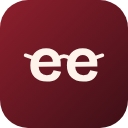
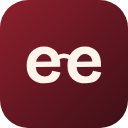
iSeenta: drop temples, tighten spacing, add popup theme toggle, follow browser theme by default
Claude-Session: https://claude.ai/code/session_018bcRzLMrSQFtpATV4CetTu

Changed region(s): [[0.1875, 0.3438, 0.5625, 0.6562], [0.5312, 0.3438, 0.8125, 0.6562]]

diff --git a/src/popup.html b/src/popup.html
@@ -15,10 +15,10 @@
     <div class="extension-popup">
     <header class="popup-header">
       <div class="brand-block">
-        <svg class="brand-wordmark" viewBox="-30 -770 3912 850" role="img" aria-label="iSeenta" xmlns="http://www.w3.org/2000/svg"><title>iSeenta</title><path class="seenta-letters" fill="currentColor" d="M66 0V-525H210V0ZM139 -604Q97 -604 74.5 -621.5Q52 -639 52 -673Q52 -708 74.5 -726Q97 -744 139 -744Q182 -744 204.5 -726Q227 -708 227 -673Q227 -640 204.5 -622Q182 -604 139 -604Z M593 14Q528 14 476.5 1.5Q425 -11 388.5 -36.5Q352 -62 331.5 -100.5Q311 -139 308 -189L434 -230Q436 -185 456.5 -155Q477 -125 515 -111Q553 -97 600 -97Q645 -97 676 -108Q707 -119 723 -137.5Q739 -156 739 -178Q739 -204 719 -220Q699 -236 664.5 -247Q630 -258 586 -268Q537 -279 489.5 -293Q442 -307 403.5 -329Q365 -351 342.5 -386Q320 -421 320 -474Q320 -535 350.5 -579.5Q381 -624 440 -649Q499 -674 582 -674Q666 -674 725.5 -649.5Q785 -625 818 -580.5Q851 -536 854 -475L724 -439Q724 -470 714 -493Q704 -516 686 -531.5Q668 -547 641.5 -555Q615 -563 581 -563Q542 -563 513.5 -553Q485 -543 470.5 -526Q456 -509 456 -486Q456 -459 478.5 -441.5Q501 -424 538.5 -413Q576 -402 621 -392Q664 -383 708.5 -369.5Q753 -356 791.5 -334.5Q830 -313 853.5 -276.5Q877 -240 877 -185Q877 -125 845 -80Q813 -35 749.5 -10.5Q686 14 593 14Z M1293 14Q1228 14 1177.5 -4Q1127 -22 1092 -56Q1057 -90 1038.5 -140Q1020 -190 1020 -253Q1020 -315 1037.5 -367.5Q1055 -420 1089 -458.5Q1123 -497 1172 -518Q1221 -539 1283 -539Q1343 -539 1390 -519.5Q1437 -500 1468.5 -461Q1500 -422 1514.5 -365.5Q1529 -309 1525 -236L1158 -232Q1162 -165 1195 -131Q1232 -91 1293 -91Q1321 -91 1340.5 -98.5Q1360 -106 1372.5 -118Q1385 -130 1392.5 -145Q1400 -160 1405 -175L1530 -148Q1521 -111 1503.5 -81.5Q1486 -52 1457 -30.5Q1428 -9 1387.5 2.5Q1347 14 1293 14ZM1162 -311 1393 -314Q1392 -341 1384 -361Q1370 -395 1343.5 -411Q1317 -427 1285 -427Q1247 -427 1218 -407Q1189 -387 1173 -349Q1166 -331 1162 -311Z M1899 14Q1834 14 1783.5 -4Q1733 -22 1698 -56Q1663 -90 1644.5 -140Q1626 -190 1626 -253Q1626 -315 1643.5 -367.5Q1661 -420 1695 -458.5Q1729 -497 1778 -518Q1827 -539 1889 -539Q1949 -539 1996 -519.5Q2043 -500 2074.5 -461Q2106 -422 2120.5 -365.5Q2135 -309 2131 -236L1764 -232Q1768 -165 1801 -131Q1838 -91 1899 -91Q1927 -91 1946.5 -98.5Q1966 -106 1978.5 -118Q1991 -130 1998.5 -145Q2006 -160 2011 -175L2136 -148Q2127 -111 2109.5 -81.5Q2092 -52 2063 -30.5Q2034 -9 1993.5 2.5Q1953 14 1899 14ZM1768 -311 1999 -314Q1998 -341 1990 -361Q1976 -395 1949.5 -411Q1923 -427 1891 -427Q1853 -427 1824 -407Q1795 -387 1779 -349Q1772 -331 1768 -311Z M2329 0V-525H2447L2446 -368H2466Q2479 -425 2503 -463Q2527 -501 2563.5 -520Q2600 -539 2650 -539Q2741 -539 2788.5 -475Q2836 -411 2836 -274V0H2691V-258Q2691 -342 2666.5 -380.5Q2642 -419 2595 -419Q2555 -419 2528 -394Q2501 -369 2487.5 -328.5Q2474 -288 2473 -238V0Z M3143 12Q3055 12 3013.5 -34.5Q2972 -81 2972 -183V-412H2896L2898 -525H2951Q2982 -525 2997 -534Q3012 -543 3015 -567L3028 -642H3110V-525H3243V-408H3110V-189Q3110 -153 3127 -137Q3144 -121 3179 -121Q3198 -121 3215.5 -125Q3233 -129 3246 -138V-4Q3215 6 3189 9Q3163 12 3143 12Z M3456 14Q3412 14 3378 -3.5Q3344 -21 3325 -54Q3306 -87 3306 -136Q3306 -179 3322.5 -208Q3339 -237 3371 -255Q3403 -273 3450 -285Q3497 -297 3557 -306Q3589 -311 3609.5 -315.5Q3630 -320 3640 -330.5Q3650 -341 3650 -361Q3650 -389 3630 -409Q3610 -429 3567 -429Q3538 -429 3513.5 -419Q3489 -409 3471.5 -389Q3454 -369 3446 -338L3319 -377Q3331 -418 3353.5 -448Q3376 -478 3408 -498.5Q3440 -519 3481 -529Q3522 -539 3570 -539Q3647 -539 3695.5 -514.5Q3744 -490 3768 -438.5Q3792 -387 3792 -306V-216Q3792 -181 3793.5 -145Q3795 -109 3797.5 -72.5Q3800 -36 3803 0H3676Q3672 -25 3668.5 -57.5Q3665 -90 3663 -123H3645Q3631 -85 3605 -54Q3579 -23 3541.5 -4.5Q3504 14 3456 14ZM3517 -90Q3536 -90 3555.5 -97Q3575 -104 3593.5 -116.5Q3612 -129 3627.5 -148Q3643 -167 3653 -191L3651 -257Q3642 -253 3632 -250Q3608 -242 3582.5 -238Q3557 -234 3532 -229Q3507 -224 3487.5 -216Q3468 -208 3456.5 -194.5Q3445 -181 3445 -157Q3445 -126 3465 -108Q3485 -90 3517 -90Z"/><g class="seenta-glasses" fill="none" stroke="currentColor" stroke-width="60" stroke-linecap="round" stroke-linejoin="round"><path d="M1478.0 -366.5 Q1578.0 -450.5 1678.0 -366.5"/><path d="M1072.0 -377.3 L942.0 -421.3"/><path d="M2084.0 -377.3 L2214.0 -421.3"/></g></svg>
+        <svg class="brand-wordmark" viewBox="-30 -770 3712 850" role="img" aria-label="iSeenta" xmlns="http://www.w3.org/2000/svg"><title>iSeenta</title><path class="seenta-letters" fill="currentColor" d="M66 0V-525H210V0ZM139 -604Q97 -604 74.5 -621.5Q52 -639 52 -673Q52 -708 74.5 -726Q97 -744 139 -744Q182 -744 204.5 -726Q227 -708 227 -673Q227 -640 204.5 -622Q182 -604 139 -604Z M593 14Q528 14 476.5 1.5Q425 -11 388.5 -36.5Q352 -62 331.5 -100.5Q311 -139 308 -189L434 -230Q436 -185 456.5 -155Q477 -125 515 -111Q553 -97 600 -97Q645 -97 676 -108Q707 -119 723 -137.5Q739 -156 739 -178Q739 -204 719 -220Q699 -236 664.5 -247Q630 -258 586 -268Q537 -279 489.5 -293Q442 -307 403.5 -329Q365 -351 342.5 -386Q320 -421 320 -474Q320 -535 350.5 -579.5Q381 -624 440 -649Q499 -674 582 -674Q666 -674 725.5 -649.5Q785 -625 818 -580.5Q851 -536 854 -475L724 -439Q724 -470 714 -493Q704 -516 686 -531.5Q668 -547 641.5 -555Q615 -563 581 -563Q542 -563 513.5 -553Q485 -543 470.5 -526Q456 -509 456 -486Q456 -459 478.5 -441.5Q501 -424 538.5 -413Q576 -402 621 -392Q664 -383 708.5 -369.5Q753 -356 791.5 -334.5Q830 -313 853.5 -276.5Q877 -240 877 -185Q877 -125 845 -80Q813 -35 749.5 -10.5Q686 14 593 14Z M1194 14Q1129 14 1078.5 -4Q1028 -22 993 -56Q958 -90 939.5 -140Q921 -190 921 -253Q921 -315 938.5 -367.5Q956 -420 990 -458.5Q1024 -497 1073 -518Q1122 -539 1184 -539Q1244 -539 1291 -519.5Q1338 -500 1369.5 -461Q1401 -422 1415.5 -365.5Q1430 -309 1426 -236L1059 -232Q1063 -165 1096 -131Q1133 -91 1194 -91Q1222 -91 1241.5 -98.5Q1261 -106 1273.5 -118Q1286 -130 1293.5 -145Q1301 -160 1306 -175L1431 -148Q1422 -111 1404.5 -81.5Q1387 -52 1358 -30.5Q1329 -9 1288.5 2.5Q1248 14 1194 14ZM1063 -311 1294 -314Q1293 -341 1285 -361Q1271 -395 1244.5 -411Q1218 -427 1186 -427Q1148 -427 1119 -407Q1090 -387 1074 -349Q1067 -331 1063 -311Z M1808 14Q1743 14 1692.5 -4Q1642 -22 1607 -56Q1572 -90 1553.5 -140Q1535 -190 1535 -253Q1535 -315 1552.5 -367.5Q1570 -420 1604 -458.5Q1638 -497 1687 -518Q1736 -539 1798 -539Q1858 -539 1905 -519.5Q1952 -500 1983.5 -461Q2015 -422 2029.5 -365.5Q2044 -309 2040 -236L1673 -232Q1677 -165 1710 -131Q1747 -91 1808 -91Q1836 -91 1855.5 -98.5Q1875 -106 1887.5 -118Q1900 -130 1907.5 -145Q1915 -160 1920 -175L2045 -148Q2036 -111 2018.5 -81.5Q2001 -52 1972 -30.5Q1943 -9 1902.5 2.5Q1862 14 1808 14ZM1677 -311 1908 -314Q1907 -341 1899 -361Q1885 -395 1858.5 -411Q1832 -427 1800 -427Q1762 -427 1733 -407Q1704 -387 1688 -349Q1681 -331 1677 -311Z M2129 0V-525H2247L2246 -368H2266Q2279 -425 2303 -463Q2327 -501 2363.5 -520Q2400 -539 2450 -539Q2541 -539 2588.5 -475Q2636 -411 2636 -274V0H2491V-258Q2491 -342 2466.5 -380.5Q2442 -419 2395 -419Q2355 -419 2328 -394Q2301 -369 2287.5 -328.5Q2274 -288 2273 -238V0Z M2943 12Q2855 12 2813.5 -34.5Q2772 -81 2772 -183V-412H2696L2698 -525H2751Q2782 -525 2797 -534Q2812 -543 2815 -567L2828 -642H2910V-525H3043V-408H2910V-189Q2910 -153 2927 -137Q2944 -121 2979 -121Q2998 -121 3015.5 -125Q3033 -129 3046 -138V-4Q3015 6 2989 9Q2963 12 2943 12Z M3256 14Q3212 14 3178 -3.5Q3144 -21 3125 -54Q3106 -87 3106 -136Q3106 -179 3122.5 -208Q3139 -237 3171 -255Q3203 -273 3250 -285Q3297 -297 3357 -306Q3389 -311 3409.5 -315.5Q3430 -320 3440 -330.5Q3450 -341 3450 -361Q3450 -389 3430 -409Q3410 -429 3367 -429Q3338 -429 3313.5 -419Q3289 -409 3271.5 -389Q3254 -369 3246 -338L3119 -377Q3131 -418 3153.5 -448Q3176 -478 3208 -498.5Q3240 -519 3281 -529Q3322 -539 3370 -539Q3447 -539 3495.5 -514.5Q3544 -490 3568 -438.5Q3592 -387 3592 -306V-216Q3592 -181 3593.5 -145Q3595 -109 3597.5 -72.5Q3600 -36 3603 0H3476Q3472 -25 3468.5 -57.5Q3465 -90 3463 -123H3445Q3431 -85 3405 -54Q3379 -23 3341.5 -4.5Q3304 14 3256 14ZM3317 -90Q3336 -90 3355.5 -97Q3375 -104 3393.5 -116.5Q3412 -129 3427.5 -148Q3443 -167 3453 -191L3451 -257Q3442 -253 3432 -250Q3408 -242 3382.5 -238Q3357 -234 3332 -229Q3307 -224 3287.5 -216Q3268 -208 3256.5 -194.5Q3245 -181 3245 -157Q3245 -126 3265 -108Q3285 -90 3317 -90Z"/><g class="seenta-glasses" fill="none" stroke="currentColor" stroke-width="64" stroke-linecap="round" stroke-linejoin="round"><path d="M1379.0 -366.5 Q1483.0 -436.5 1587.0 -366.5"/></g></svg>
         <span class="brand-caption">Class activity tracker</span>
       </div>
-      <svg class="header-eye" viewBox="882 -609 1392 663" aria-hidden="true" xmlns="http://www.w3.org/2000/svg"><path class="seenta-letters" fill="currentColor" d="M1293 14Q1228 14 1177.5 -4Q1127 -22 1092 -56Q1057 -90 1038.5 -140Q1020 -190 1020 -253Q1020 -315 1037.5 -367.5Q1055 -420 1089 -458.5Q1123 -497 1172 -518Q1221 -539 1283 -539Q1343 -539 1390 -519.5Q1437 -500 1468.5 -461Q1500 -422 1514.5 -365.5Q1529 -309 1525 -236L1158 -232Q1162 -165 1195 -131Q1232 -91 1293 -91Q1321 -91 1340.5 -98.5Q1360 -106 1372.5 -118Q1385 -130 1392.5 -145Q1400 -160 1405 -175L1530 -148Q1521 -111 1503.5 -81.5Q1486 -52 1457 -30.5Q1428 -9 1387.5 2.5Q1347 14 1293 14ZM1162 -311 1393 -314Q1392 -341 1384 -361Q1370 -395 1343.5 -411Q1317 -427 1285 -427Q1247 -427 1218 -407Q1189 -387 1173 -349Q1166 -331 1162 -311Z M1899 14Q1834 14 1783.5 -4Q1733 -22 1698 -56Q1663 -90 1644.5 -140Q1626 -190 1626 -253Q1626 -315 1643.5 -367.5Q1661 -420 1695 -458.5Q1729 -497 1778 -518Q1827 -539 1889 -539Q1949 -539 1996 -519.5Q2043 -500 2074.5 -461Q2106 -422 2120.5 -365.5Q2135 -309 2131 -236L1764 -232Q1768 -165 1801 -131Q1838 -91 1899 -91Q1927 -91 1946.5 -98.5Q1966 -106 1978.5 -118Q1991 -130 1998.5 -145Q2006 -160 2011 -175L2136 -148Q2127 -111 2109.5 -81.5Q2092 -52 2063 -30.5Q2034 -9 1993.5 2.5Q1953 14 1899 14ZM1768 -311 1999 -314Q1998 -341 1990 -361Q1976 -395 1949.5 -411Q1923 -427 1891 -427Q1853 -427 1824 -407Q1795 -387 1779 -349Q1772 -331 1768 -311Z"/><g class="seenta-glasses" fill="none" stroke="currentColor" stroke-width="60" stroke-linecap="round" stroke-linejoin="round"><path d="M1478.0 -366.5 Q1578.0 -450.5 1678.0 -366.5"/><path d="M1072.0 -377.3 L942.0 -421.3"/><path d="M2084.0 -377.3 L2214.0 -421.3"/></g></svg>
+      <button type="button" class="btn btn-ghost btn-icon icon-bordered theme-toggle" id="theme-toggle" aria-label="Switch to dark theme" title="Switch to dark theme"><svg class="icon-moon" viewBox="0 0 24 24" aria-hidden="true"><path d="M20.985 12.486a9 9 0 1 1-9.473-9.472c.405-.022.617.46.402.803a6 6 0 0 0 8.268 8.268c.344-.215.825-.004.803.401"/></svg><svg class="icon-sun" viewBox="0 0 24 24" aria-hidden="true"><circle cx="12" cy="12" r="4"/><path d="M12 2v2"/><path d="M12 20v2"/><path d="m4.93 4.93 1.41 1.41"/><path d="m17.66 17.66 1.41 1.41"/><path d="M2 12h2"/><path d="M20 12h2"/><path d="m6.34 17.66-1.41 1.41"/><path d="m19.07 4.93-1.41 1.41"/></svg></button>
     </header>
 
     <main class="popup-main">

diff --git a/dashboard/src/Logo.tsx b/dashboard/src/Logo.tsx
@@ -1,15 +1,13 @@
-// iSeenta wordmark: Bricolage Grotesque letters converted to outlines. The two "e"s are the font's own glyphs;
-// a bridge and two temples turn them into eyeglasses. Inline SVG so it inherits the text color (light/dark)
+// iSeenta wordmark: Bricolage Grotesque letters converted to outlines. The two "e"s are the font's own glyphs,
+// joined by a small bridge so they read as eyeglasses. Inline SVG so it inherits the text color (light/dark)
 // and scales with CSS height.
 export function Wordmark({ className = "brand-wordmark" }: { className?: string }) {
   return (
-    <svg className={className} viewBox="-30 -770 3912 850" role="img" aria-label="iSeenta" xmlns="http://www.w3.org/2000/svg">
+    <svg className={className} viewBox="-30 -770 3712 850" role="img" aria-label="iSeenta" xmlns="http://www.w3.org/2000/svg">
       <title>iSeenta</title>
-      <path className="seenta-letters" fill="currentColor" d="M66 0V-525H210V0ZM139 -604Q97 -604 74.5 -621.5Q52 -639 52 -673Q52 -708 74.5 -726Q97 -744 139 -744Q182 -744 204.5 -726Q227 -708 227 -673Q227 -640 204.5 -622Q182 -604 139 -604Z M593 14Q528 14 476.5 1.5Q425 -11 388.5 -36.5Q352 -62 331.5 -100.5Q311 -139 308 -189L434 -230Q436 -185 456.5 -155Q477 -125 515 -111Q553 -97 600 -97Q645 -97 676 -108Q707 -119 723 -137.5Q739 -156 739 -178Q739 -204 719 -220Q699 -236 664.5 -247Q630 -258 586 -268Q537 -279 489.5 -293Q442 -307 403.5 -329Q365 -351 342.5 -386Q320 -421 320 -474Q320 -535 350.5 -579.5Q381 -624 440 -649Q499 -674 582 -674Q666 -674 725.5 -649.5Q785 -625 818 -580.5Q851 -536 854 -475L724 -439Q724 -470 714 -493Q704 -516 686 -531.5Q668 -547 641.5 -555Q615 -563 581 -563Q542 -563 513.5 -553Q485 -543 470.5 -526Q456 -509 456 -486Q456 -459 478.5 -441.5Q501 -424 538.5 -413Q576 -402 621 -392Q664 -383 708.5 -369.5Q753 -356 791.5 -334.5Q830 -313 853.5 -276.5Q877 -240 877 -185Q877 -125 845 -80Q813 -35 749.5 -10.5Q686 14 593 14Z M1293 14Q1228 14 1177.5 -4Q1127 -22 1092 -56Q1057 -90 1038.5 -140Q1020 -190 1020 -253Q1020 -315 1037.5 -367.5Q1055 -420 1089 -458.5Q1123 -497 1172 -518Q1221 -539 1283 -539Q1343 -539 1390 -519.5Q1437 -500 1468.5 -461Q1500 -422 1514.5 -365.5Q1529 -309 1525 -236L1158 -232Q1162 -165 1195 -131Q1232 -91 1293 -91Q1321 -91 1340.5 -98.5Q1360 -106 1372.5 -118Q1385 -130 1392.5 -145Q1400 -160 1405 -175L1530 -148Q1521 -111 1503.5 -81.5Q1486 -52 1457 -30.5Q1428 -9 1387.5 2.5Q1347 14 1293 14ZM1162 -311 1393 -314Q1392 -341 1384 -361Q1370 -395 1343.5 -411Q1317 -427 1285 -427Q1247 -427 1218 -407Q1189 -387 1173 -349Q1166 -331 1162 -311Z M1899 14Q1834 14 1783.5 -4Q1733 -22 1698 -56Q1663 -90 1644.5 -140Q1626 -190 1626 -253Q1626 -315 1643.5 -367.5Q1661 -420 1695 -458.5Q1729 -497 1778 -518Q1827 -539 1889 -539Q1949 -539 1996 -519.5Q2043 -500 2074.5 -461Q2106 -422 2120.5 -365.5Q2135 -309 2131 -236L1764 -232Q1768 -165 1801 -131Q1838 -91 1899 -91Q1927 -91 1946.5 -98.5Q1966 -106 1978.5 -118Q1991 -130 1998.5 -145Q2006 -160 2011 -175L2136 -148Q2127 -111 2109.5 -81.5Q2092 -52 2063 -30.5Q2034 -9 1993.5 2.5Q1953 14 1899 14ZM1768 -311 1999 -314Q1998 -341 1990 -361Q1976 -395 1949.5 -411Q1923 -427 1891 -427Q1853 -427 1824 -407Q1795 -387 1779 -349Q1772 -331 1768 -311Z M2329 0V-525H2447L2446 -368H2466Q2479 -425 2503 -463Q2527 -501 2563.5 -520Q2600 -539 2650 -539Q2741 -539 2788.5 -475Q2836 -411 2836 -274V0H2691V-258Q2691 -342 2666.5 -380.5Q2642 -419 2595 -419Q2555 -419 2528 -394Q2501 -369 2487.5 -328.5Q2474 -288 2473 -238V0Z M3143 12Q3055 12 3013.5 -34.5Q2972 -81 2972 -183V-412H2896L2898 -525H2951Q2982 -525 2997 -534Q3012 -543 3015 -567L3028 -642H3110V-525H3243V-408H3110V-189Q3110 -153 3127 -137Q3144 -121 3179 -121Q3198 -121 3215.5 -125Q3233 -129 3246 -138V-4Q3215 6 3189 9Q3163 12 3143 12Z M3456 14Q3412 14 3378 -3.5Q3344 -21 3325 -54Q3306 -87 3306 -136Q3306 -179 3322.5 -208Q3339 -237 3371 -255Q3403 -273 3450 -285Q3497 -297 3557 -306Q3589 -311 3609.5 -315.5Q3630 -320 3640 -330.5Q3650 -341 3650 -361Q3650 -389 3630 -409Q3610 -429 3567 -429Q3538 -429 3513.5 -419Q3489 -409 3471.5 -389Q3454 -369 3446 -338L3319 -377Q3331 -418 3353.5 -448Q3376 -478 3408 -498.5Q3440 -519 3481 -529Q3522 -539 3570 -539Q3647 -539 3695.5 -514.5Q3744 -490 3768 -438.5Q3792 -387 3792 -306V-216Q3792 -181 3793.5 -145Q3795 -109 3797.5 -72.5Q3800 -36 3803 0H3676Q3672 -25 3668.5 -57.5Q3665 -90 3663 -123H3645Q3631 -85 3605 -54Q3579 -23 3541.5 -4.5Q3504 14 3456 14ZM3517 -90Q3536 -90 3555.5 -97Q3575 -104 3593.5 -116.5Q3612 -129 3627.5 -148Q3643 -167 3653 -191L3651 -257Q3642 -253 3632 -250Q3608 -242 3582.5 -238Q3557 -234 3532 -229Q3507 -224 3487.5 -216Q3468 -208 3456.5 -194.5Q3445 -181 3445 -157Q3445 -126 3465 -108Q3485 -90 3517 -90Z" />
-      <g className="seenta-glasses" fill="none" stroke="currentColor" strokeWidth="60" strokeLinecap="round" strokeLinejoin="round">
-        <path d="M1478.0 -366.5 Q1578.0 -450.5 1678.0 -366.5" />
-        <path d="M1072.0 -377.3 L942.0 -421.3" />
-        <path d="M2084.0 -377.3 L2214.0 -421.3" />
+      <path className="seenta-letters" fill="currentColor" d="M66 0V-525H210V0ZM139 -604Q97 -604 74.5 -621.5Q52 -639 52 -673Q52 -708 74.5 -726Q97 -744 139 -744Q182 -744 204.5 -726Q227 -708 227 -673Q227 -640 204.5 -622Q182 -604 139 -604Z M593 14Q528 14 476.5 1.5Q425 -11 388.5 -36.5Q352 -62 331.5 -100.5Q311 -139 308 -189L434 -230Q436 -185 456.5 -155Q477 -125 515 -111Q553 -97 600 -97Q645 -97 676 -108Q707 -119 723 -137.5Q739 -156 739 -178Q739 -204 719 -220Q699 -236 664.5 -247Q630 -258 586 -268Q537 -279 489.5 -293Q442 -307 403.5 -329Q365 -351 342.5 -386Q320 -421 320 -474Q320 -535 350.5 -579.5Q381 -624 440 -649Q499 -674 582 -674Q666 -674 725.5 -649.5Q785 -625 818 -580.5Q851 -536 854 -475L724 -439Q724 -470 714 -493Q704 -516 686 -531.5Q668 -547 641.5 -555Q615 -563 581 -563Q542 -563 513.5 -553Q485 -543 470.5 -526Q456 -509 456 -486Q456 -459 478.5 -441.5Q501 -424 538.5 -413Q576 -402 621 -392Q664 -383 708.5 -369.5Q753 -356 791.5 -334.5Q830 -313 853.5 -276.5Q877 -240 877 -185Q877 -125 845 -80Q813 -35 749.5 -10.5Q686 14 593 14Z M1194 14Q1129 14 1078.5 -4Q1028 -22 993 -56Q958 -90 939.5 -140Q921 -190 921 -253Q921 -315 938.5 -367.5Q956 -420 990 -458.5Q1024 -497 1073 -518Q1122 -539 1184 -539Q1244 -539 1291 -519.5Q1338 -500 1369.5 -461Q1401 -422 1415.5 -365.5Q1430 -309 1426 -236L1059 -232Q1063 -165 1096 -131Q1133 -91 1194 -91Q1222 -91 1241.5 -98.5Q1261 -106 1273.5 -118Q1286 -130 1293.5 -145Q1301 -160 1306 -175L1431 -148Q1422 -111 1404.5 -81.5Q1387 -52 1358 -30.5Q1329 -9 1288.5 2.5Q1248 14 1194 14ZM1063 -311 1294 -314Q1293 -341 1285 -361Q1271 -395 1244.5 -411Q1218 -427 1186 -427Q1148 -427 1119 -407Q1090 -387 1074 -349Q1067 -331 1063 -311Z M1808 14Q1743 14 1692.5 -4Q1642 -22 1607 -56Q1572 -90 1553.5 -140Q1535 -190 1535 -253Q1535 -315 1552.5 -367.5Q1570 -420 1604 -458.5Q1638 -497 1687 -518Q1736 -539 1798 -539Q1858 -539 1905 -519.5Q1952 -500 1983.5 -461Q2015 -422 2029.5 -365.5Q2044 -309 2040 -236L1673 -232Q1677 -165 1710 -131Q1747 -91 1808 -91Q1836 -91 1855.5 -98.5Q1875 -106 1887.5 -118Q1900 -130 1907.5 -145Q1915 -160 1920 -175L2045 -148Q2036 -111 2018.5 -81.5Q2001 -52 1972 -30.5Q1943 -9 1902.5 2.5Q1862 14 1808 14ZM1677 -311 1908 -314Q1907 -341 1899 -361Q1885 -395 1858.5 -411Q1832 -427 1800 -427Q1762 -427 1733 -407Q1704 -387 1688 -349Q1681 -331 1677 -311Z M2129 0V-525H2247L2246 -368H2266Q2279 -425 2303 -463Q2327 -501 2363.5 -520Q2400 -539 2450 -539Q2541 -539 2588.5 -475Q2636 -411 2636 -274V0H2491V-258Q2491 -342 2466.5 -380.5Q2442 -419 2395 -419Q2355 -419 2328 -394Q2301 -369 2287.5 -328.5Q2274 -288 2273 -238V0Z M2943 12Q2855 12 2813.5 -34.5Q2772 -81 2772 -183V-412H2696L2698 -525H2751Q2782 -525 2797 -534Q2812 -543 2815 -567L2828 -642H2910V-525H3043V-408H2910V-189Q2910 -153 2927 -137Q2944 -121 2979 -121Q2998 -121 3015.5 -125Q3033 -129 3046 -138V-4Q3015 6 2989 9Q2963 12 2943 12Z M3256 14Q3212 14 3178 -3.5Q3144 -21 3125 -54Q3106 -87 3106 -136Q3106 -179 3122.5 -208Q3139 -237 3171 -255Q3203 -273 3250 -285Q3297 -297 3357 -306Q3389 -311 3409.5 -315.5Q3430 -320 3440 -330.5Q3450 -341 3450 -361Q3450 -389 3430 -409Q3410 -429 3367 -429Q3338 -429 3313.5 -419Q3289 -409 3271.5 -389Q3254 -369 3246 -338L3119 -377Q3131 -418 3153.5 -448Q3176 -478 3208 -498.5Q3240 -519 3281 -529Q3322 -539 3370 -539Q3447 -539 3495.5 -514.5Q3544 -490 3568 -438.5Q3592 -387 3592 -306V-216Q3592 -181 3593.5 -145Q3595 -109 3597.5 -72.5Q3600 -36 3603 0H3476Q3472 -25 3468.5 -57.5Q3465 -90 3463 -123H3445Q3431 -85 3405 -54Q3379 -23 3341.5 -4.5Q3304 14 3256 14ZM3317 -90Q3336 -90 3355.5 -97Q3375 -104 3393.5 -116.5Q3412 -129 3427.5 -148Q3443 -167 3453 -191L3451 -257Q3442 -253 3432 -250Q3408 -242 3382.5 -238Q3357 -234 3332 -229Q3307 -224 3287.5 -216Q3268 -208 3256.5 -194.5Q3245 -181 3245 -157Q3245 -126 3265 -108Q3285 -90 3317 -90Z" />
+      <g className="seenta-glasses" fill="none" stroke="currentColor" strokeWidth="64" strokeLinecap="round" strokeLinejoin="round">
+        <path d="M1379.0 -366.5 Q1483.0 -436.5 1587.0 -366.5" />
       </g>
     </svg>
   );

diff --git a/dashboard/src/App.tsx b/dashboard/src/App.tsx
@@ -155,7 +155,7 @@ export default function App() {
   const timerRunning = activeSession?.status === "active";
   const elapsedMs = activeSession ? activeSession.elapsedMs + (timerRunning ? Math.max(0, now - activeSession.startedAtMs) : 0) : 0;
   const elapsedSeconds = Math.floor(elapsedMs / 1000);
-  const [dark, setDark] = useState(() => localStorage.getItem("kinetic-theme") === "dark");
+  const [dark, setDark] = useState(() => { const stored = localStorage.getItem("kinetic-theme"); return stored ? stored === "dark" : window.matchMedia("(prefers-color-scheme: dark)").matches; });
   const [navPinned, setNavPinned] = useState(false);
   const [awayOnly, setAwayOnly] = useState(false);
   const [search, setSearch] = useState("");
@@ -174,7 +174,15 @@ export default function App() {
     setAuthError("");
     setUser(currentUser);
   }), []);
-  useEffect(() => { document.documentElement.classList.toggle("dark", dark); localStorage.setItem("kinetic-theme", dark ? "dark" : "light"); }, [dark]);
+  useEffect(() => { document.documentElement.classList.toggle("dark", dark); }, [dark]);
+  // Follow the browser setting until the user picks a theme with the toggle.
+  useEffect(() => {
+    const query = window.matchMedia("(prefers-color-scheme: dark)");
+    const onChange = () => { if (!localStorage.getItem("kinetic-theme")) setDark(query.matches); };
+    query.addEventListener("change", onChange);
+    return () => query.removeEventListener("change", onChange);
+  }, []);
+  const toggleTheme = () => { const next = !dark; localStorage.setItem("kinetic-theme", next ? "dark" : "light"); setDark(next); };
   useEffect(() => {
     const onScroll = () => {
       setNavPinned(window.scrollY > 24);
@@ -312,7 +320,7 @@ export default function App() {
         <a className="btn btn-ghost nav-link" href="#activity"><History />Session activity</a>
         <span className="nav-divider" />
         <button type="button" className="btn btn-ghost nav-link" onClick={() => user ? signOut(auth) : void signIn()}>{user ? <LogOut /> : <LogIn />}{user ? "Sign out" : "Sign in"}</button>
-        <button type="button" className="btn btn-ghost btn-icon icon-bordered" onClick={() => setDark(v => !v)} aria-label={dark ? "Switch to light theme" : "Switch to dark theme"} title={dark ? "Switch to light theme" : "Switch to dark theme"}>{dark ? <Sun /> : <Moon />}</button>
+        <button type="button" className="btn btn-ghost btn-icon icon-bordered" onClick={toggleTheme} aria-label={dark ? "Switch to light theme" : "Switch to dark theme"} title={dark ? "Switch to light theme" : "Switch to dark theme"}>{dark ? <Sun /> : <Moon />}</button>
       </nav>
     </header>
     <main id="top" className="workspace">

diff --git a/src/popup.css b/src/popup.css
@@ -33,7 +33,7 @@
   --btn: linear-gradient(115deg, oklch(.4 .13 21), oklch(.3 .105 20));
 }
 @media (prefers-color-scheme: dark) {
-  :root {
+  :root:not([data-theme="light"]) {
     /* PUP maroon-black, not grey */
     --background: oklch(.14 .022 20);
     --card: oklch(.18 .03 20);
@@ -54,6 +54,28 @@
     --btn: linear-gradient(115deg, oklch(.5 .15 21), oklch(.4 .13 20));
   }
 }
+:root[data-theme="dark"] {
+    /* PUP maroon-black, not grey */
+    --background: oklch(.14 .022 20);
+    --card: oklch(.18 .03 20);
+    --foreground: oklch(.95 .008 40);
+    --muted-foreground: oklch(.73 .02 25);
+    --border: oklch(.28 .035 20);
+    --primary: oklch(.66 .13 20);
+    --primary-foreground: oklch(.14 .022 20);
+    --secondary: oklch(.22 .03 20);
+    --active-text: oklch(.77 .13 158);
+    --idle-text: oklch(.81 .13 77);
+    --away-text: oklch(.79 .12 43);
+    --not-detected-text: oklch(.75 .033 257);
+    --active-tint: oklch(.265 .032 158);
+    --idle-tint: oklch(.275 .03 77);
+    --away-tint: oklch(.27 .032 43);
+    --not-detected-tint: oklch(.24 .02 20);
+    --btn: linear-gradient(115deg, oklch(.5 .15 21), oklch(.4 .13 20));
+}
+:root[data-theme="light"] { color-scheme: light; }
+:root[data-theme="dark"] { color-scheme: dark; }
 
 /* BASE ------------------------------------------------------------------- */
 *, *::before, *::after { box-sizing: border-box; margin: 0; padding: 0; border: 0 solid var(--border); letter-spacing: 0; }
@@ -75,7 +97,16 @@ strong { font-weight: 600; }
 .popup-header { padding: 27px 24px 23px; display: flex; justify-content: space-between; align-items: center; background: var(--card); border-bottom: 1px solid var(--border); }
 .brand-wordmark { display: block; height: 30px; width: auto; color: var(--foreground); }
 .brand-caption { display: block; color: var(--muted-foreground); padding-top: 8px; font-size: 12px; }
-.header-eye { width: 34px; height: auto; color: var(--muted-foreground); }
+.theme-toggle { width: 36px; height: 36px; padding: 0; flex-shrink: 0; color: var(--muted-foreground); }
+.theme-toggle:hover { color: var(--foreground); }
+.theme-toggle svg { width: 17px; height: 17px; }
+.theme-toggle .icon-sun { display: none; }
+:root[data-theme="dark"] .theme-toggle .icon-sun { display: block; }
+:root[data-theme="dark"] .theme-toggle .icon-moon { display: none; }
+@media (prefers-color-scheme: dark) {
+  :root:not([data-theme="light"]) .theme-toggle .icon-sun { display: block; }
+  :root:not([data-theme="light"]) .theme-toggle .icon-moon { display: none; }
+}
 
 /* SHARED BODY ------------------------------------------------------------ */
 .popup-body { padding: 24px; }

diff --git a/src/popup.js b/src/popup.js
@@ -3,6 +3,31 @@ import { meetCodeFromUrl } from "./config";
 
 const $ = id => document.getElementById(id);
 
+// Theme: follow the browser setting by default; the header toggle overrides it.
+// Same storage key as the teacher dashboard so both stay in step.
+const THEME_KEY = "kinetic-theme";
+const systemDark = window.matchMedia("(prefers-color-scheme: dark)");
+function storedTheme() {
+  try { const v = localStorage.getItem(THEME_KEY); return v === "dark" || v === "light" ? v : null; } catch { return null; }
+}
+function applyTheme() {
+  const stored = storedTheme();
+  if (stored) document.documentElement.dataset.theme = stored; else delete document.documentElement.dataset.theme;
+  const dark = (stored || (systemDark.matches ? "dark" : "light")) === "dark";
+  const toggle = $("theme-toggle");
+  if (toggle) {
+    toggle.setAttribute("aria-label", dark ? "Switch to light theme" : "Switch to dark theme");
+    toggle.title = dark ? "Switch to light theme" : "Switch to dark theme";
+  }
+}
+applyTheme();
+systemDark.addEventListener("change", applyTheme);
+$("theme-toggle")?.addEventListener("click", () => {
+  const dark = (storedTheme() || (systemDark.matches ? "dark" : "light")) === "dark";
+  try { localStorage.setItem(THEME_KEY, dark ? "light" : "dark"); } catch {}
+  applyTheme();
+});
+
 const screens = ["screen-role", "screen-student-signin", "screen-student", "screen-professor"];
 
 function show(screenId) {
